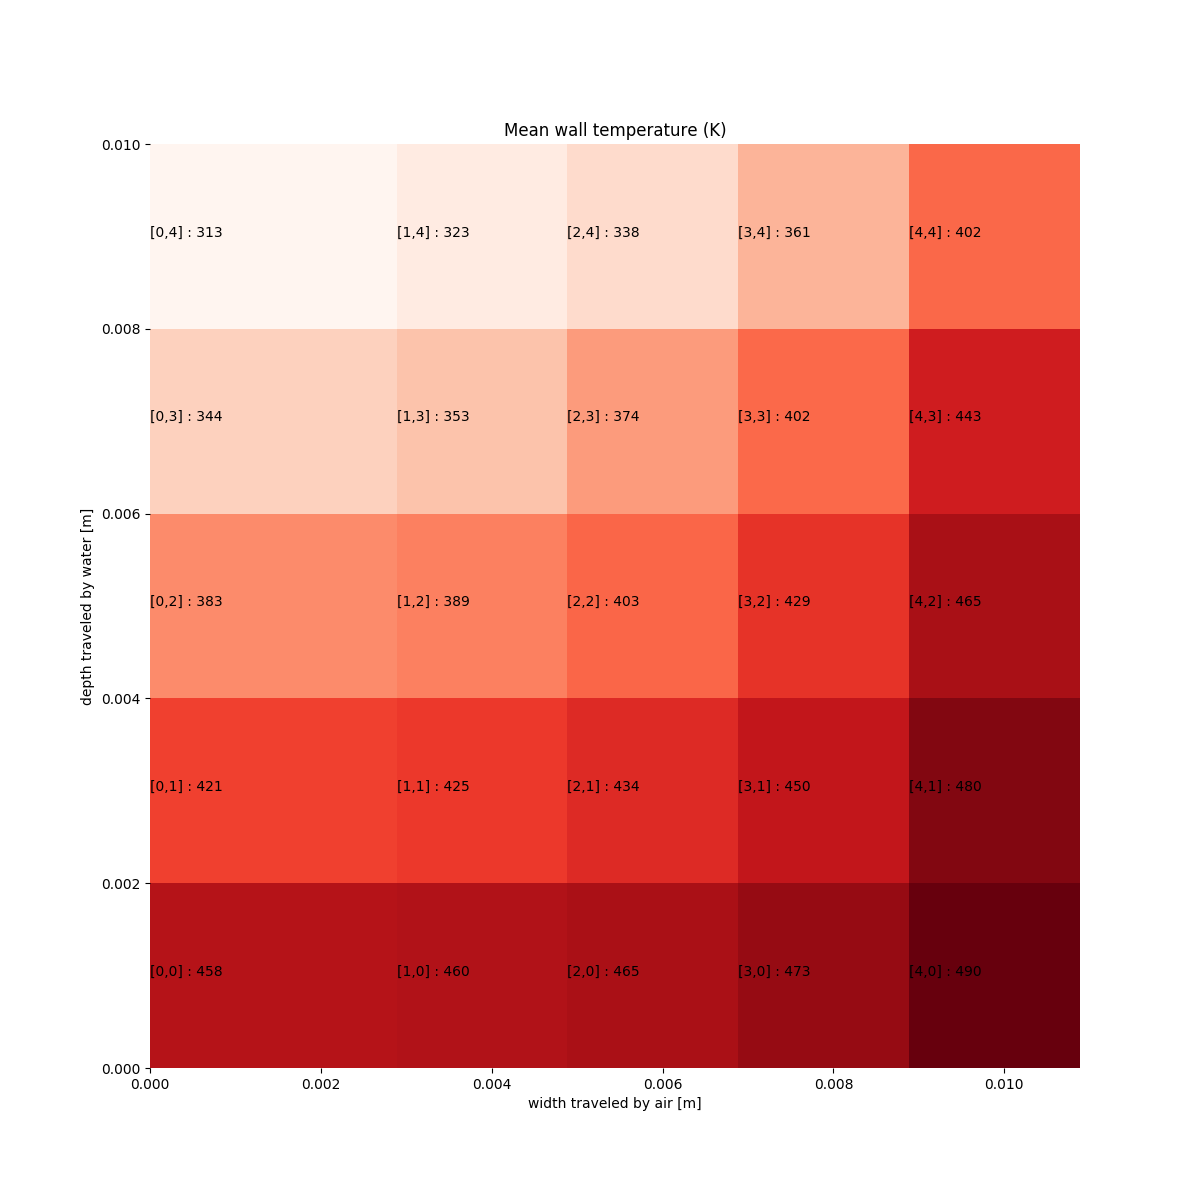
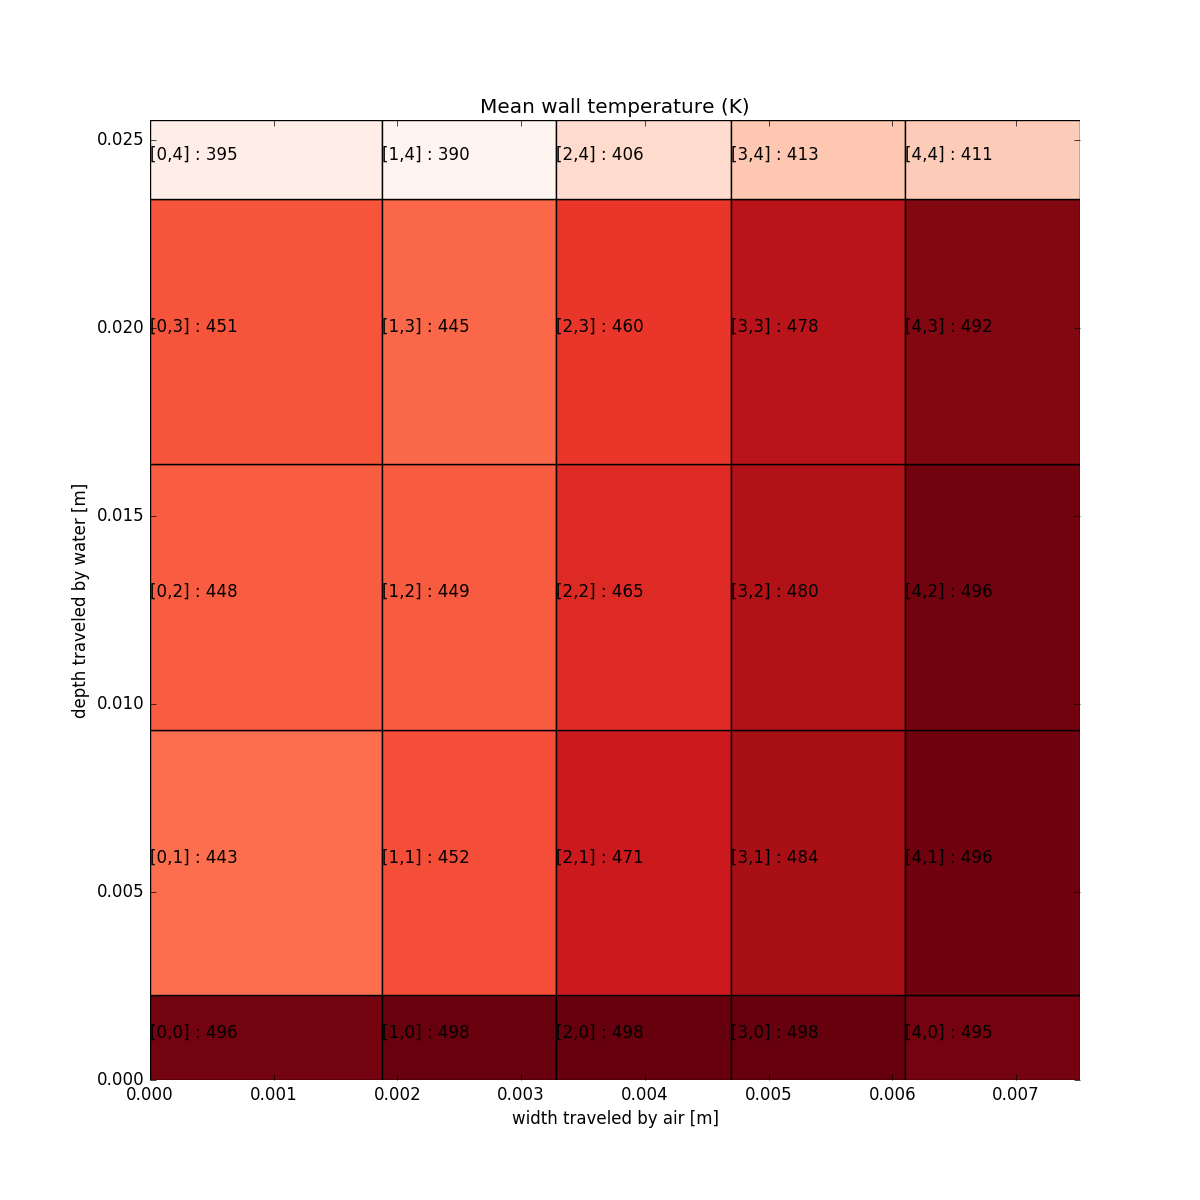
Wow merge conflicts - new T_out formulation.

diff --git a/heatexchanger/layer.py b/heatexchanger/layer.py
@@ -19,7 +19,12 @@ class Layer(Model):
     V_tot           [cm^3]    total volume
     V_mtrl          [cm^3]    volume of material
     g          9.81 [m*s^-2]  gravitational acceleration
-
+    x_dim      5    [cm]      max hot length
+    y_dim      10   [cm]      max cold length
+    z_dim      1    [cm]      max height
+    maxAR      5    [-]       max tile width variation
+    T_max_hot  450  [K]       max temp. out
+    T_max_cld       [K]       min temp. out
 
     Upper Unbounded
     ---------------
@@ -46,12 +51,15 @@ class Layer(Model):
         with Vectorize(Nwaterpipes):
             waterpipes = RectangularPipe(Nairpipes, water, increasingT=False,
                                          substitutions={"T_in": 500,
-                                                        "v_in": 5})
+                                                        "v_in": 1})
             self.waterpipes = waterpipes
 
         with Vectorize(Nwaterpipes):
             with Vectorize(Nairpipes):
                 c = self.c = HXArea(self.material)
+
+        self.Cf_wat = self.waterpipes.Cf
+        self.Cf_air = self.airpipes.Cf
 
         waterCf = []
         airCf = []
@@ -64,7 +72,6 @@ class Layer(Model):
             SP_Qsum = Q <= c.dQ.sum()
             for i in range(Nwaterpipes):
                 waterCf.extend([waterpipes.D[i] >= waterpipes.fr[i]*waterpipes.A_seg[i,0],
-                                waterpipes.fr[i] >= waterpipes.dP[i,:].sum(),
                                 ])
                 for j in range(Nairpipes):
                     waterCf.extend([waterpipes.l[i,j] <= sum(airpipes.w[0:j+1]),
@@ -72,7 +79,6 @@ class Layer(Model):
                                             ])
             for i in range(Nairpipes):
                 airCf.extend([airpipes.D[i] >= airpipes.fr[i]*airpipes.A_seg[i,0],
-                              airpipes.fr[i] >= airpipes.dP[i,:].sum(),
                               ])
                 for j in range(Nwaterpipes):
                     airCf.extend([airpipes.l[i,j] <= sum(waterpipes.w[0:j+1]),
@@ -87,6 +93,8 @@ class Layer(Model):
                              c.x_cell[i,j] == airpipes.l_seg[j,i],
                              c.y_cell[i,j] == airpipes.w[j],
                              c.y_cell[i,j] == waterpipes.l_seg[i,j],
+                             maxAR >= c.y_cell[i,j]/c.x_cell[i,j],
+                             maxAR >= c.x_cell[i,j]/c.y_cell[i,j],
                              # Arbitrary bounding for convergence.
                              c.x_cell[i,j] >= 0.1*units('cm'),
                              c.y_cell[i,j] >= 0.1*units('cm'),
@@ -106,15 +114,18 @@ class Layer(Model):
                         c.h_cld[i,j]  == airpipes.h[j,i],
                         c.z_hot[i,j]  == waterpipes.h_seg[i,j],
                         c.z_cld[i,j]  == airpipes.h_seg[j,i],
-                        c.t_plate[i,j]   >= 0.01*units('cm'),
-                        c.t_hot[i,j]     >= 0.01*units('cm'),
-                        c.t_cld[i,j]     >= 0.01*units('cm'),
                         c.t_hot[i,j]     >= 0.05/((i+1.)**3*(j+1.)**3.)**(1./3.)*units('cm'),
                         c.t_cld[i,j]     >= 0.05/((i+1.)**3*(j+1.)**3.)**(1./3.)*units('cm'),
-                        waterpipes.h_seg[i,j] >= 0.1*units('cm'),
-                        waterpipes.h_seg[i,j] <= 0.5*units('cm'),
-                        airpipes.h_seg[j,i] >= 0.1*units('cm'),
-                        airpipes.h_seg[j,i] <= 0.5*units('cm'),
+                        waterpipes.h_seg[i,j] >= 0.05*units('cm'),
+                        waterpipes.h_seg[i,j] <= 1.0*units('cm'),
+                        airpipes.h_seg[j,i] >= 0.05*units('cm'),
+                        airpipes.h_seg[j,i] <= 1.0*units('cm'),
+                        x_dim >= waterpipes.w.sum(),
+                        y_dim >= airpipes.w.sum(),
+                        c.T_hot[-1,:] <= T_max_hot,
+                        c.T_cld[:,-1] >= T_max_cld,
+                        T_max_cld <= T_max_hot,
+                        T_max_cld >= 1*units('K'),
                     ])
 
         return [

diff --git a/heatexchanger/cellplot.py b/heatexchanger/cellplot.py
@@ -1,7 +1,8 @@
 from matplotlib.pyplot import *
 import numpy as np
 from mpl_toolkits.mplot3d import Axes3D
-
+import imp
+import layer
 
 def nsf(num, n=1):
     """n-Significant Figures"""
@@ -76,18 +77,18 @@ def hist_cells(m, Z, cm=cm.RdBu_r, verbosity=0, zscale=None, zoff=None):
 
 
 if __name__ == "__main__":
-    from layer import Layer
+    imp.reload(layer)
+
     Nw, Na = 5, 5
-    m = Layer(Nw, Na)
+    m = layer.Layer(Nw, Na)
     # m.substitutions.update({
     #     'V_tot':1*units('cm^3'),
     #     'Q'    :4*units('W')
     #     })
-    penalties = (m.waterpipes.dP_scale.prod()*m.airpipes.dP_scale.prod()*m.waterpipes.dT.prod()*m.airpipes.dT.prod())**-1
-    m.cost = penalties*1*m.Q**-1*(1*m.waterpipes.D.sum()+ 1*m.airpipes.D.sum())
+    m.cost = (m.D_air+m.D_wat)/m.Q
     #m = Model(m.cost,Bounded(m))
     #m = relaxed_constants(m)
-    sol = m.localsolve(verbosity=4)
+    sol = m.localsolve(verbosity=2)
     #post_process(sol)
     print sol('Q')
 

diff --git a/heatexchanger/rectpipe.py b/heatexchanger/rectpipe.py
@@ -55,8 +55,8 @@ class RectangularPipe(Model):
 
     Lower Unbounded
     ---------------
-    D, dh, h_seg, h, l_seg, w, v_out, V_seg, dP
-    Nu_notlast, dQ, Tr_int (if not increasingT)
+    D, dh, h_seg, h, l_seg, w, v_out, V_seg
+    Nu_notlast, dQ, Tr_int (if not increasingT), dP
 
     """
 
@@ -96,6 +96,7 @@ class RectangularPipe(Model):
                     P0[-1] >= P_out + 0.5*fluid.rho*v_out**2, # exit total pressure
                     P0[0] >= P0[-1] + 0.5*fluid.rho*v_in**2*Pf,
                     P0[:-1] >= P0[1:] + dP,
+                    #dP*Nsegments == fr,
                     dP <= fluid.rho*v[0:-1]*(v[0:-1] - v[1:]),
 
                     # effectiveness fit
